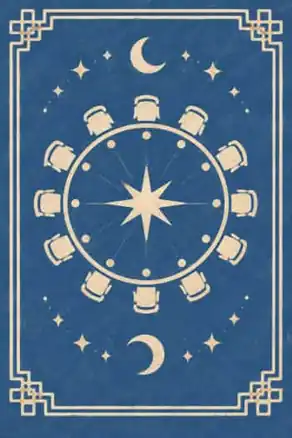
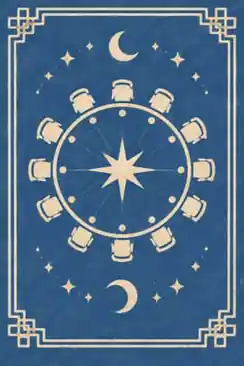
Polish printed identity card layout and details

diff --git a/miniprogram/identity-vision.js b/miniprogram/identity-vision.js
@@ -128,6 +128,7 @@
         .map(line => ({ label: summaryLabels.get(line.label), text: line.text })),
     ] : [];
     return { vision, passive, fairy, inspections, ability, summary,
+      printedBrief: roleAbility?.brief.replace(/^没有额外视野，/, "") || (secret.role === "亚瑟的忠臣" ? "从发言和任务结果中寻找同伴。" : ""),
       summaryVision: openingVision?.replace(/^没有初始视野，/, "无初始视野，") || vision.text,
       roleOverview: roleOverview(secret, ability, vision),
       showRoleHelp: !!ability,
